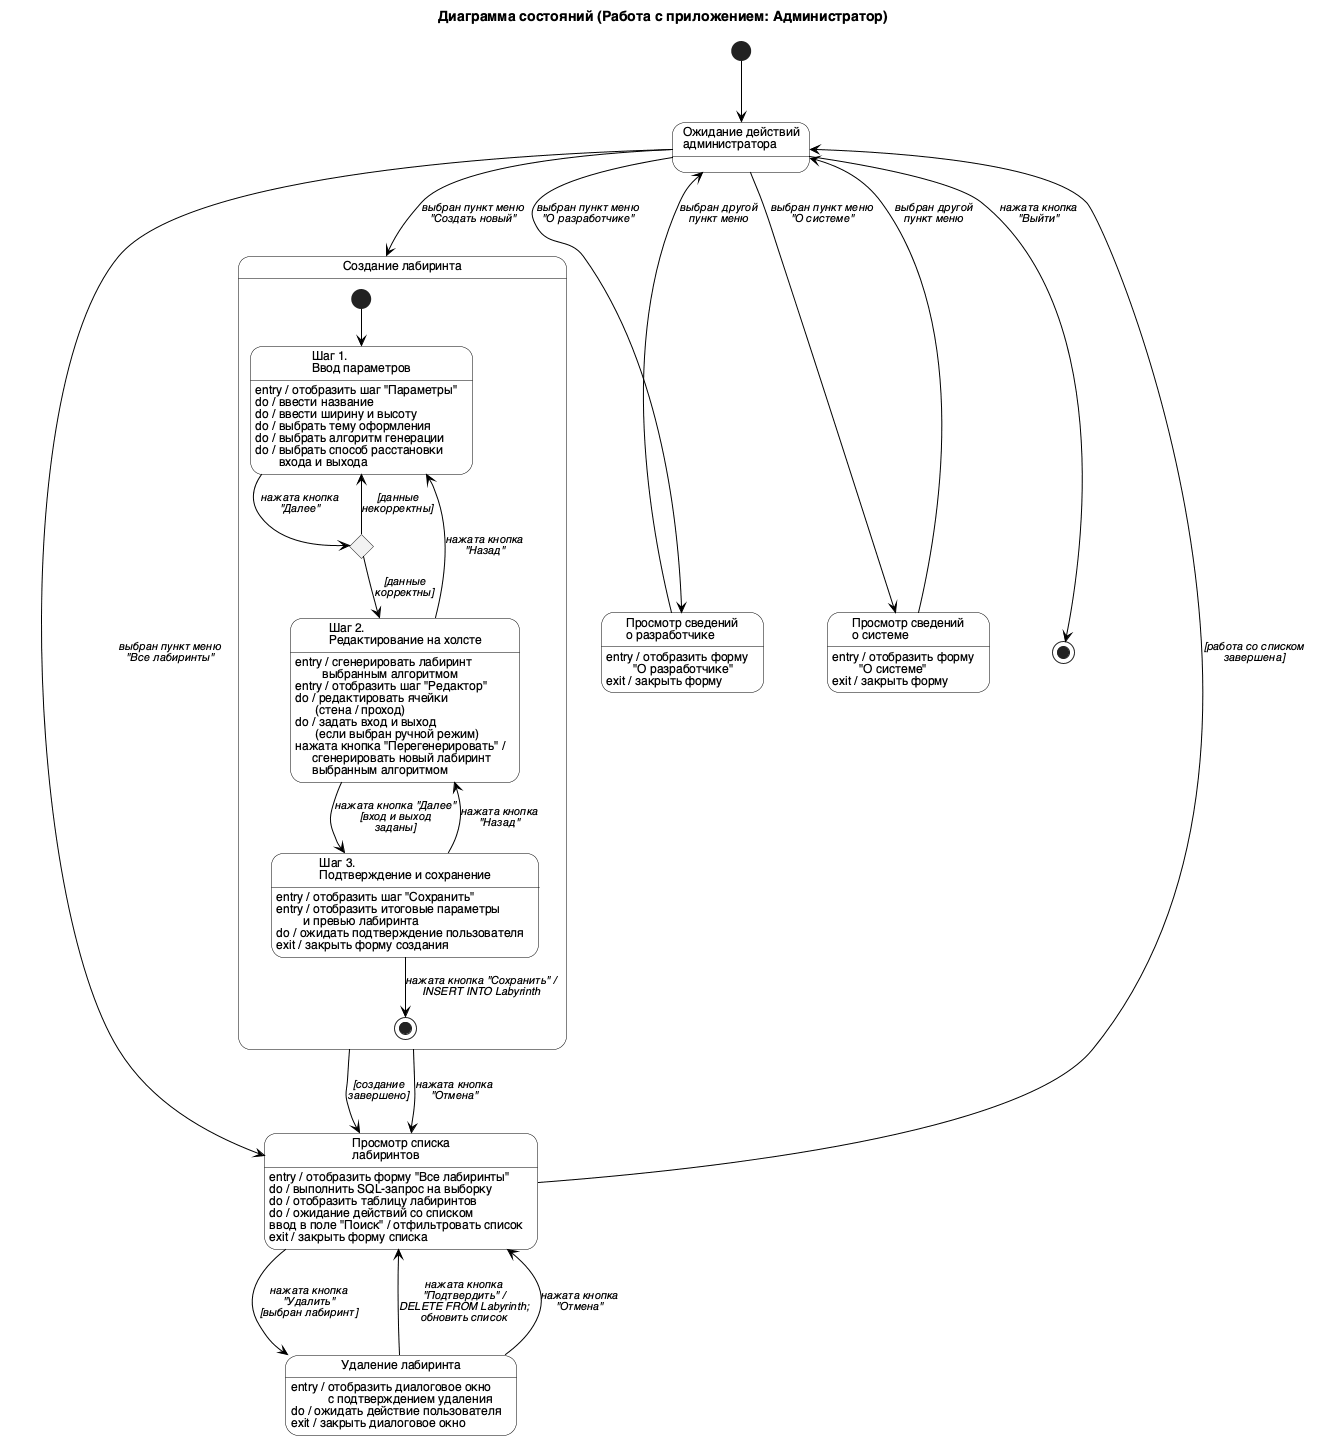
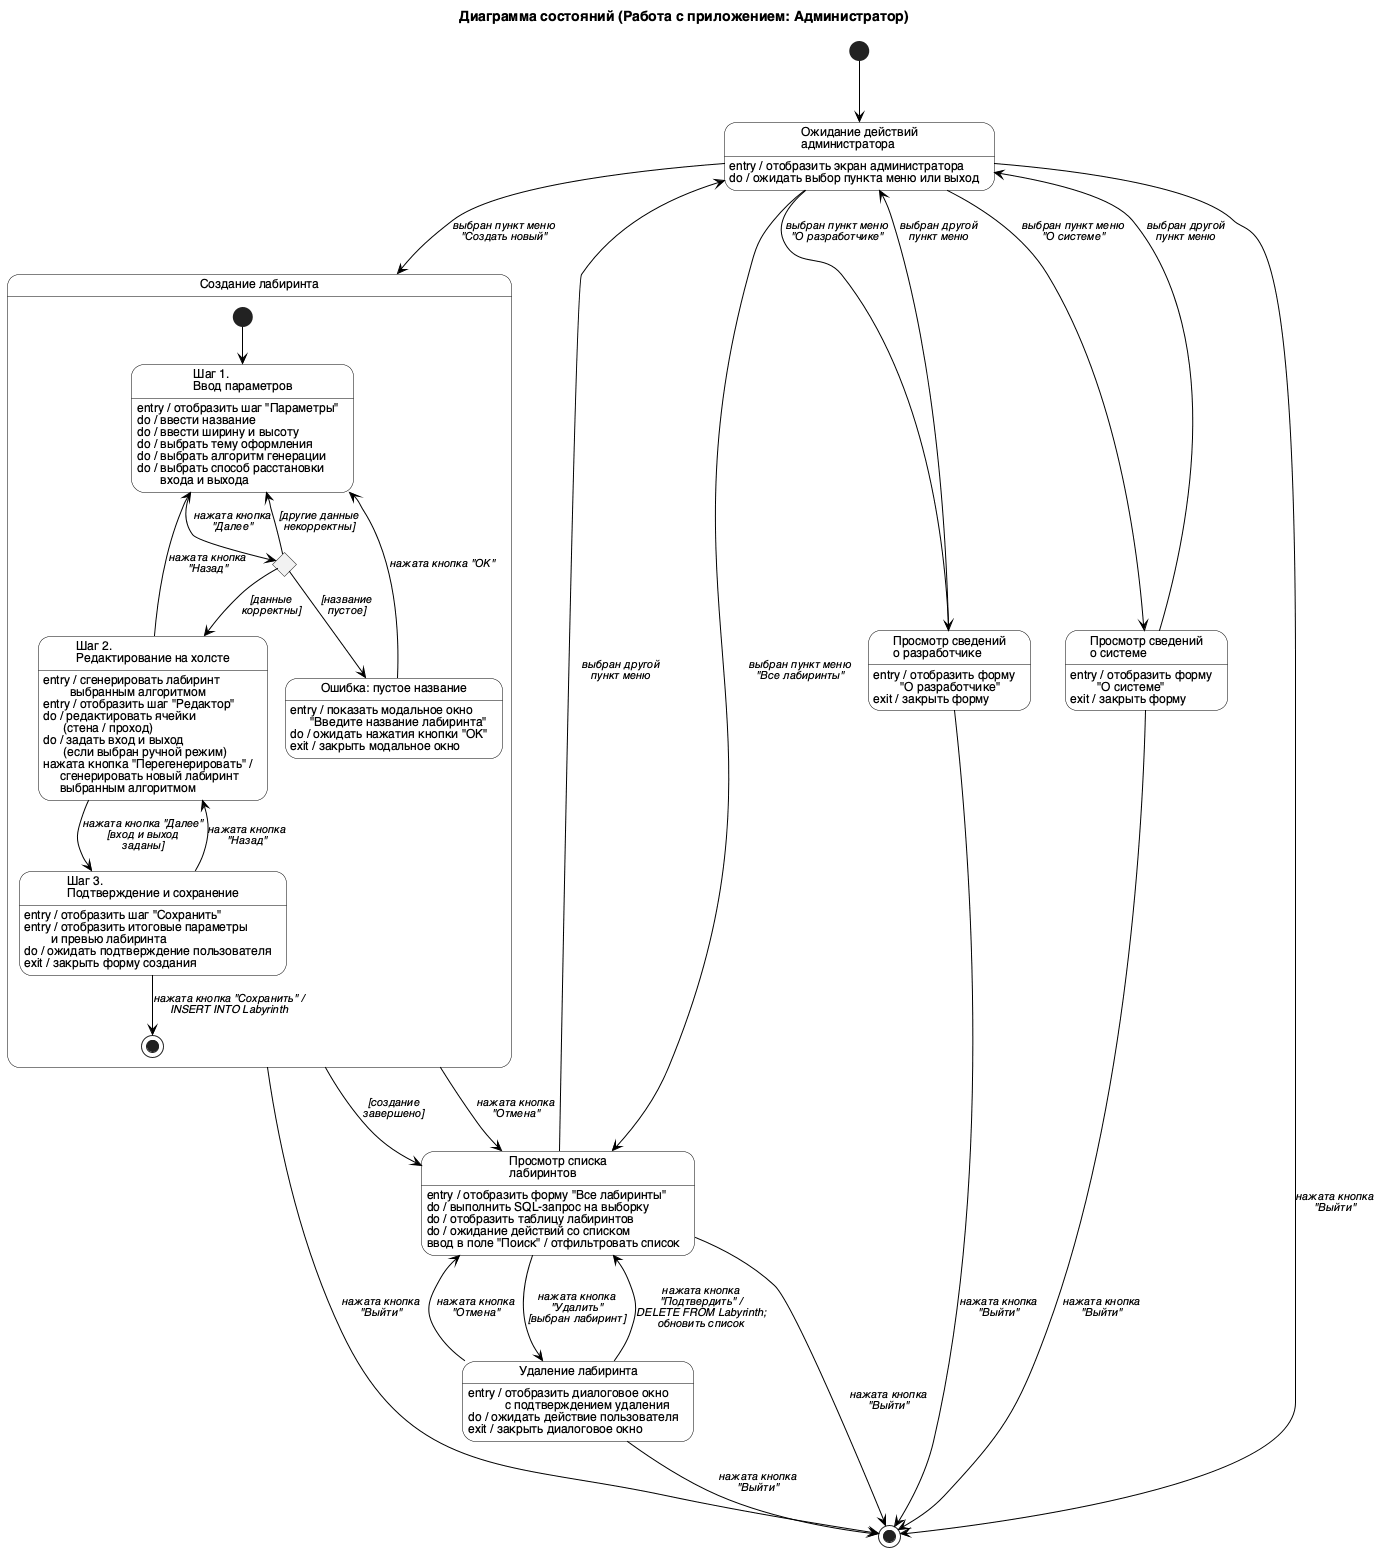
Уточнить UML state/use-case и синхронизировать UI удаления

diff --git a/index.html b/index.html
@@ -618,26 +618,45 @@ svg.filters{position:absolute;width:0;height:0;overflow:hidden}
               <tbody>
                 <tr>
                   <td>Классический 11×11</td><td>11 × 11</td><td>Прим</td><td>❄ Зима</td>
-                  <td style="display:flex;gap:4px"><button class="btn btn-sm btn-danger" style="border-style:dashed;box-shadow:none">удал.</button>
+                  <td style="display:flex;gap:4px"><button class="btn btn-sm btn-danger" style="border-style:dashed;box-shadow:none" onclick="openDeleteModal('Классический 11×11')">удал.</button>
                   </td>
                 </tr>
                 <tr>
                   <td>Большой лабиринт</td><td>21 × 15</td><td>Краскал</td><td>☀ Лето</td>
-                  <td style="display:flex;gap:4px"><button class="btn btn-sm btn-danger" style="border-style:dashed;box-shadow:none">удал.</button>
+                  <td style="display:flex;gap:4px"><button class="btn btn-sm btn-danger" style="border-style:dashed;box-shadow:none" onclick="openDeleteModal('Большой лабиринт')">удал.</button>
                   </td>
                 </tr>
                 <tr>
                   <td>Тёмные катакомбы</td><td>15 × 15</td><td>Краскал</td><td>🍂 Осень</td>
-                  <td style="display:flex;gap:4px"><button class="btn btn-sm btn-danger" style="border-style:dashed;box-shadow:none">удал.</button>
+                  <td style="display:flex;gap:4px"><button class="btn btn-sm btn-danger" style="border-style:dashed;box-shadow:none" onclick="openDeleteModal('Тёмные катакомбы')">удал.</button>
                   </td>
                 </tr>
                 <tr>
                   <td>Мини 7×7</td><td>7 × 7</td><td>Прим</td><td>🌸 Весна</td>
-                  <td style="display:flex;gap:4px"><button class="btn btn-sm btn-danger" style="border-style:dashed;box-shadow:none">удал.</button>
+                  <td style="display:flex;gap:4px"><button class="btn btn-sm btn-danger" style="border-style:dashed;box-shadow:none" onclick="openDeleteModal('Мини 7×7')">удал.</button>
                   </td>
                 </tr>
               </tbody>
             </table>
+          </div>
+        </div>
+      </div>
+
+      <!-- модальное подтверждение удаления -->
+      <div id="admin-delete-modal" style="display:none;position:fixed;inset:0;z-index:250;background:rgba(44,36,22,.45);align-items:center;justify-content:center;padding:24px">
+        <div style="background:var(--paper);border:2px solid var(--ink);border-radius:8px 16px 10px 14px;box-shadow:5px 6px 0 var(--ink3);max-width:420px;width:100%;filter:url(#pencil);overflow:hidden">
+          <div style="display:flex;align-items:center;justify-content:space-between;padding:14px 20px 12px;border-bottom:1.5px dashed var(--ink3)">
+            <span style="font-family:var(--fontb);font-size:1.1rem">Подтверждение удаления</span>
+            <button onclick="closeDeleteModal()"
+              style="width:26px;height:26px;border:1.5px solid var(--ink);border-radius:50%;background:transparent;cursor:pointer;font-size:.8rem;display:flex;align-items:center;justify-content:center;font-family:var(--font)">✕</button>
+          </div>
+          <div style="padding:18px 20px;display:flex;flex-direction:column;gap:10px">
+            <div style="font-size:.95rem;color:var(--ink2);line-height:1.7">Удалить выбранный лабиринт?</div>
+            <div id="admin-delete-target" style="font-family:var(--fontb);font-size:1.05rem;color:var(--ink)">—</div>
+          </div>
+          <div style="padding:10px 20px 14px;border-top:1.5px dashed var(--ink3);display:flex;justify-content:flex-end;gap:8px">
+            <button class="btn btn-sm btn-ghost" onclick="closeDeleteModal()">Отмена</button>
+            <button class="btn btn-sm btn-danger" onclick="confirmDeleteModal()">Подтвердить удаление</button>
           </div>
         </div>
       </div>
@@ -1254,6 +1273,22 @@ function adminView(view) {
   const map = { list:'sb-list', create:'sb-create', about:'sb-about', system:'sb-system' };
   const sbId = map[view];
   if (sbId) { const sb = document.getElementById(sbId); if (sb) sb.classList.add('active'); }
+}
+
+function openDeleteModal(name) {
+  const modal = document.getElementById('admin-delete-modal');
+  const target = document.getElementById('admin-delete-target');
+  if (target) target.textContent = name || 'Выбранный лабиринт';
+  if (modal) modal.style.display = 'flex';
+}
+
+function closeDeleteModal() {
+  const modal = document.getElementById('admin-delete-modal');
+  if (modal) modal.style.display = 'none';
+}
+
+function confirmDeleteModal() {
+  closeDeleteModal();
 }
 
 function playerCtrl(mode) {
